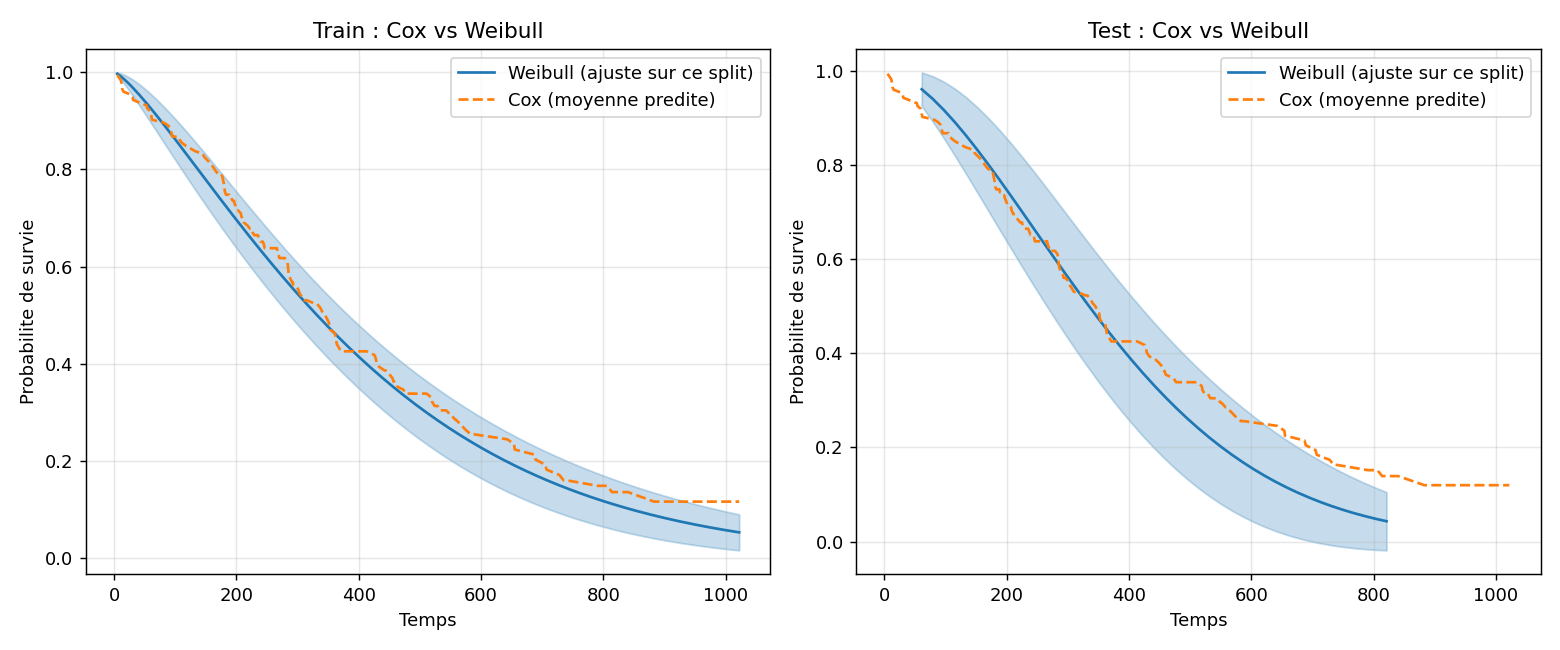
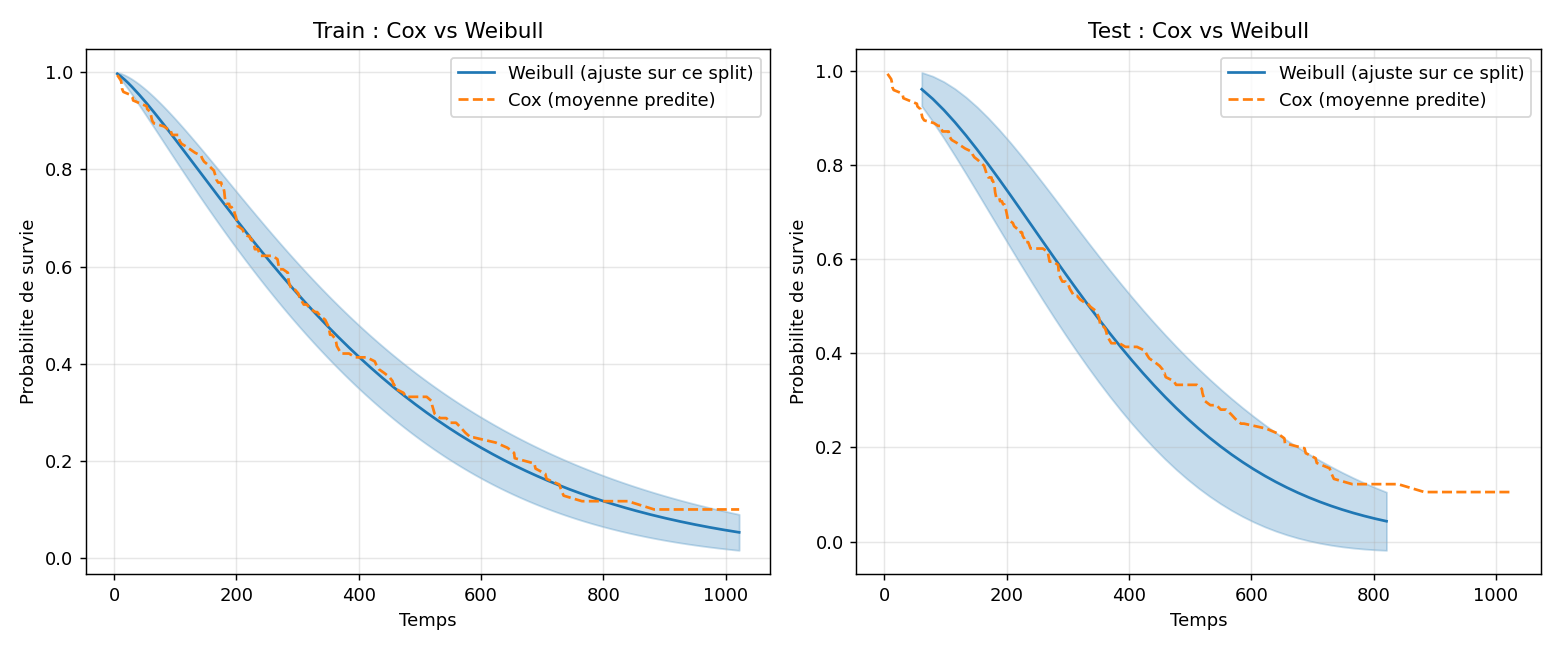
Adding html, css files to create a beautiful front page for the api - updated

diff --git a/app/templates/index.html b/app/templates/index.html
@@ -152,9 +152,9 @@ Render
 
 <li>Median survival prediction</li>
 
-<li>Kaplan-Meier curves</li>
+<li>Kaplan-Meier - Non-parametric estimation of survival curves</li>
 
-<li>Weibull modeling</li>
+<li>Weibull parametric modeling of survival distributions and hazard evolution</li>
 
 <li>Cox proportional hazards</li>
 
@@ -193,6 +193,64 @@ Render
 </div>
 
 </div>
+
+</section>
+
+<section class="container">
+
+<h2>Example Prediction</h2>
+
+<div class="example">
+
+<div>
+
+<h3>Input</h3>
+
+<pre>{
+  "sex":"female",
+  "time":100
+}</pre>
+
+</div>
+
+<div>
+
+<h3>Output</h3>
+
+<pre>{
+ "Kaplan-Meier":0.674,
+ "Weibull":0.657
+}</pre>
+
+</div>
+
+</div>
+
+</section>
+
+<section class="container">
+
+<h2>Power BI Dashboard</h2>
+
+<p>
+Interactive dashboard connected to the same SQL database powering the API.
+</p>
+
+<img class="dashboard"
+src="/static/PowerBI_survival_analysis.gif">
+
+</section>
+
+<section class="container">
+
+<h2>Project</h2>
+
+<a class="button"
+href="https://github.com/LenaOsu/Survival-Analytics-Platform">
+
+GitHub Repository
+
+</a>
 
 </section>
 

diff --git a/app/static/style.css b/app/static/style.css
@@ -174,6 +174,40 @@ color:#1f4e79;
 
 }
 
+.example{
+
+display:grid;
+
+grid-template-columns:1fr 1fr;
+
+gap:25px;
+
+}
+
+pre{
+
+background:#222;
+
+color:#eee;
+
+padding:20px;
+
+border-radius:10px;
+
+overflow:auto;
+
+}
+
+.dashboard{
+
+width:100%;
+
+border-radius:12px;
+
+box-shadow:0 5px 15px rgba(0,0,0,.1);
+
+}
+
 footer{
 
 text-align:center;
